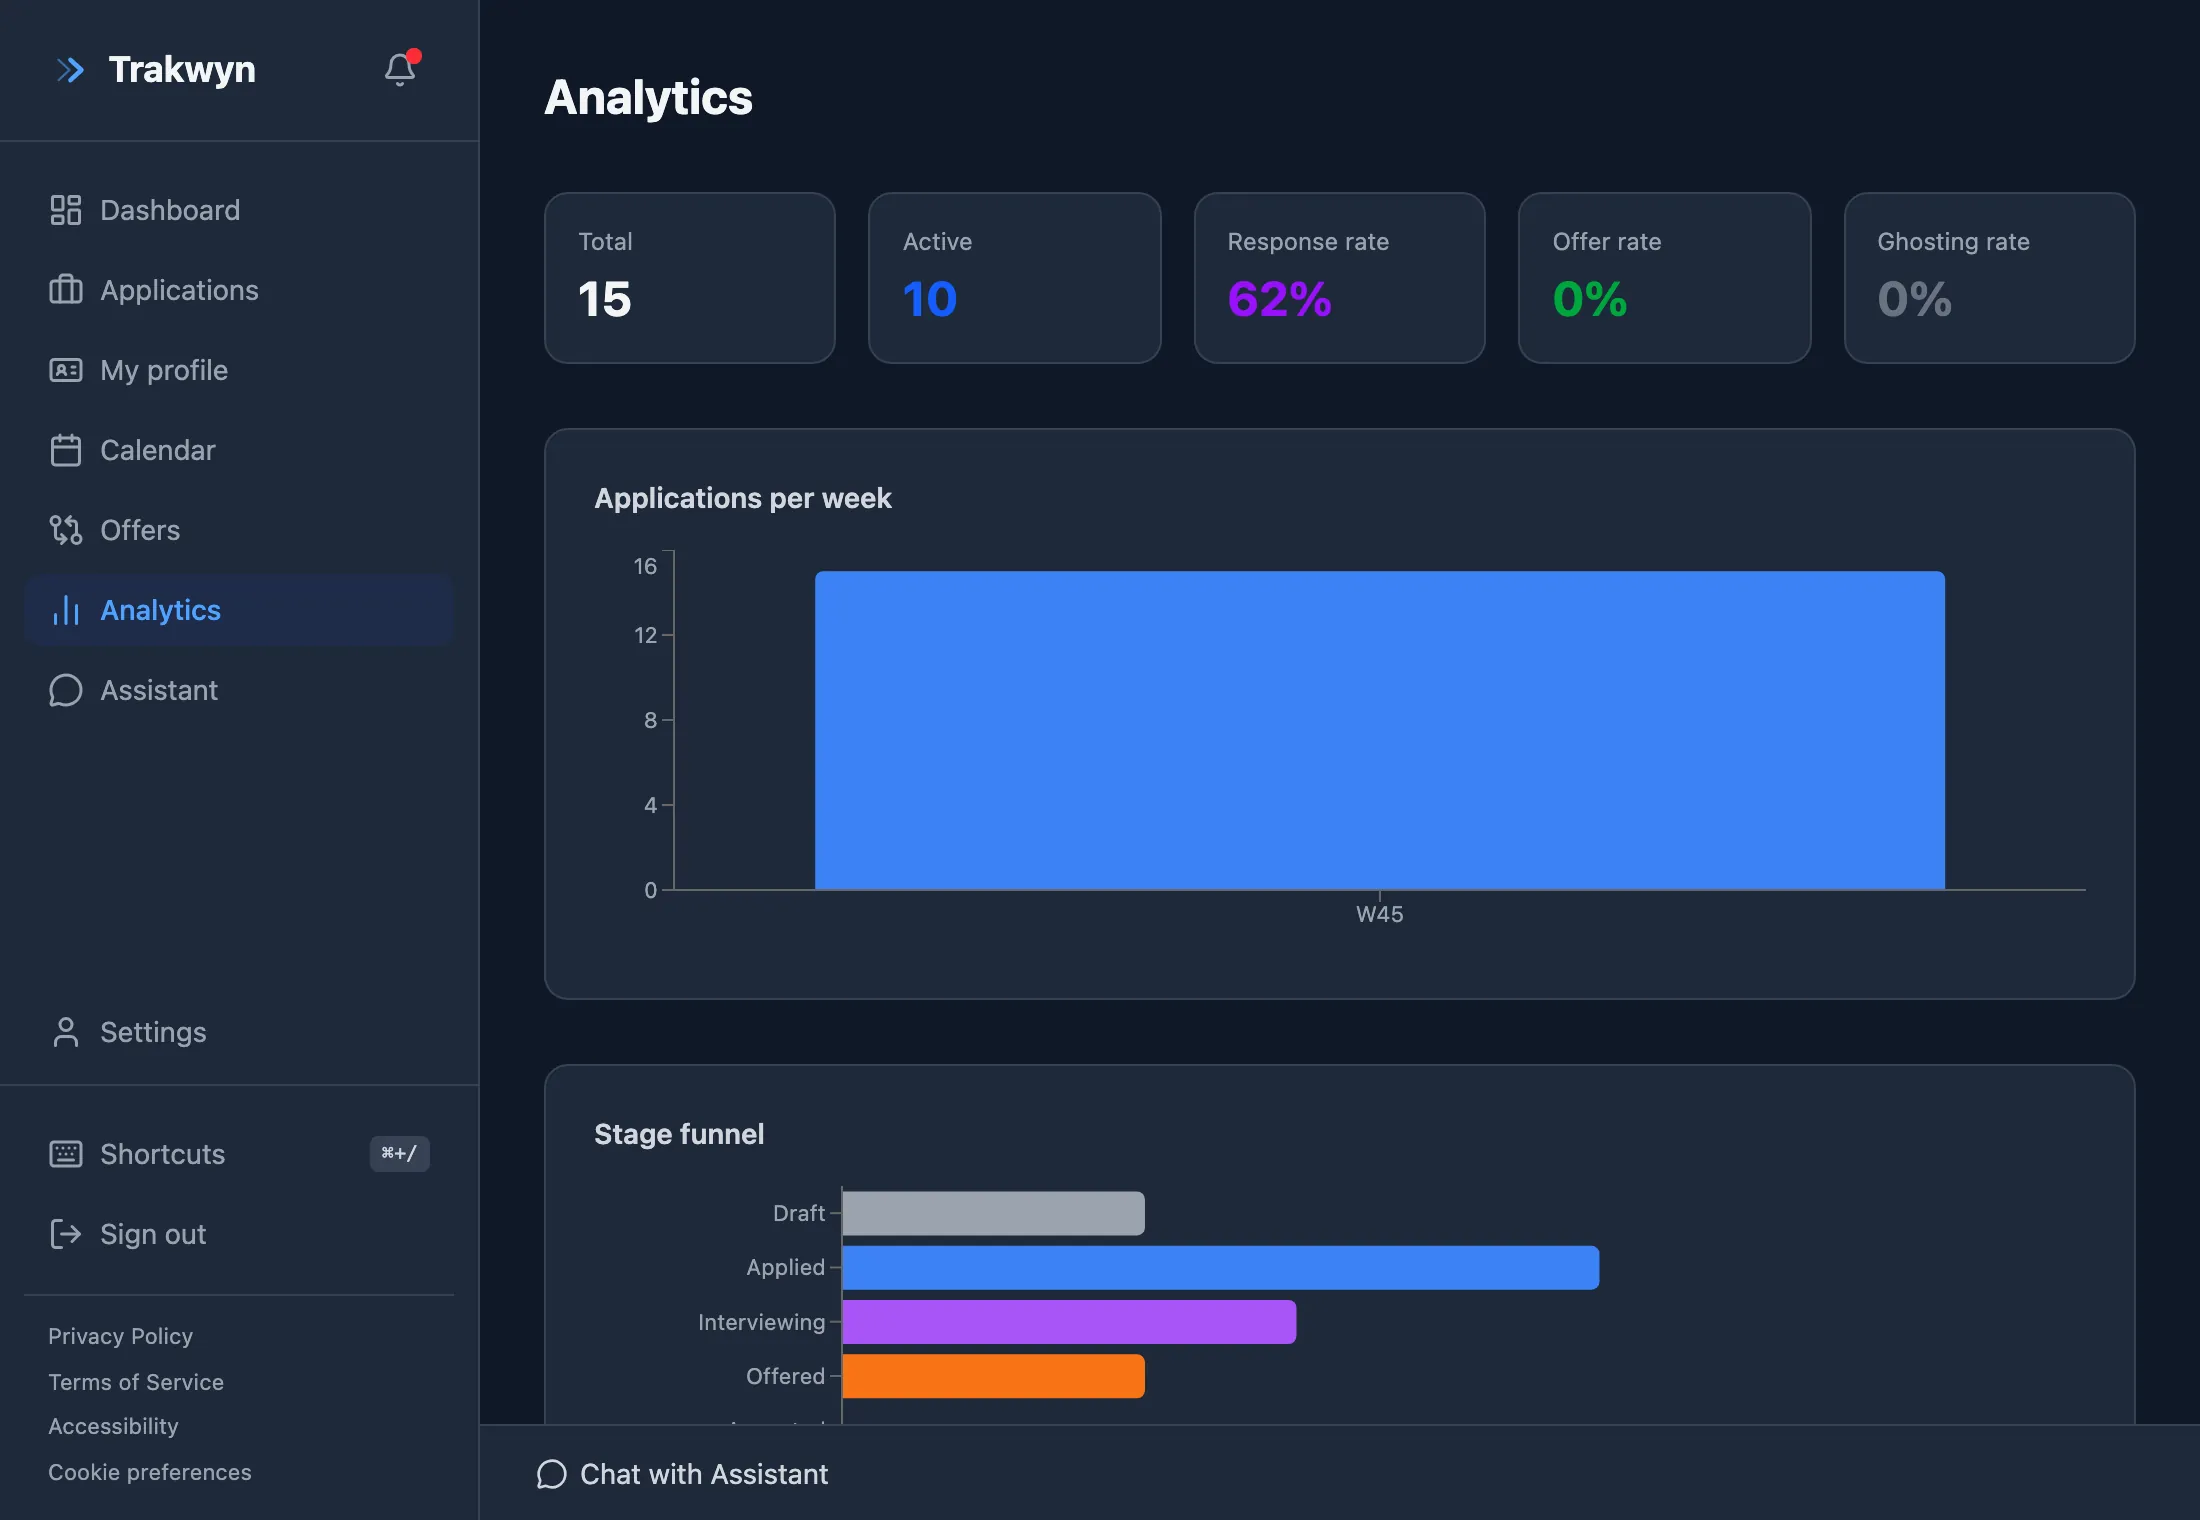
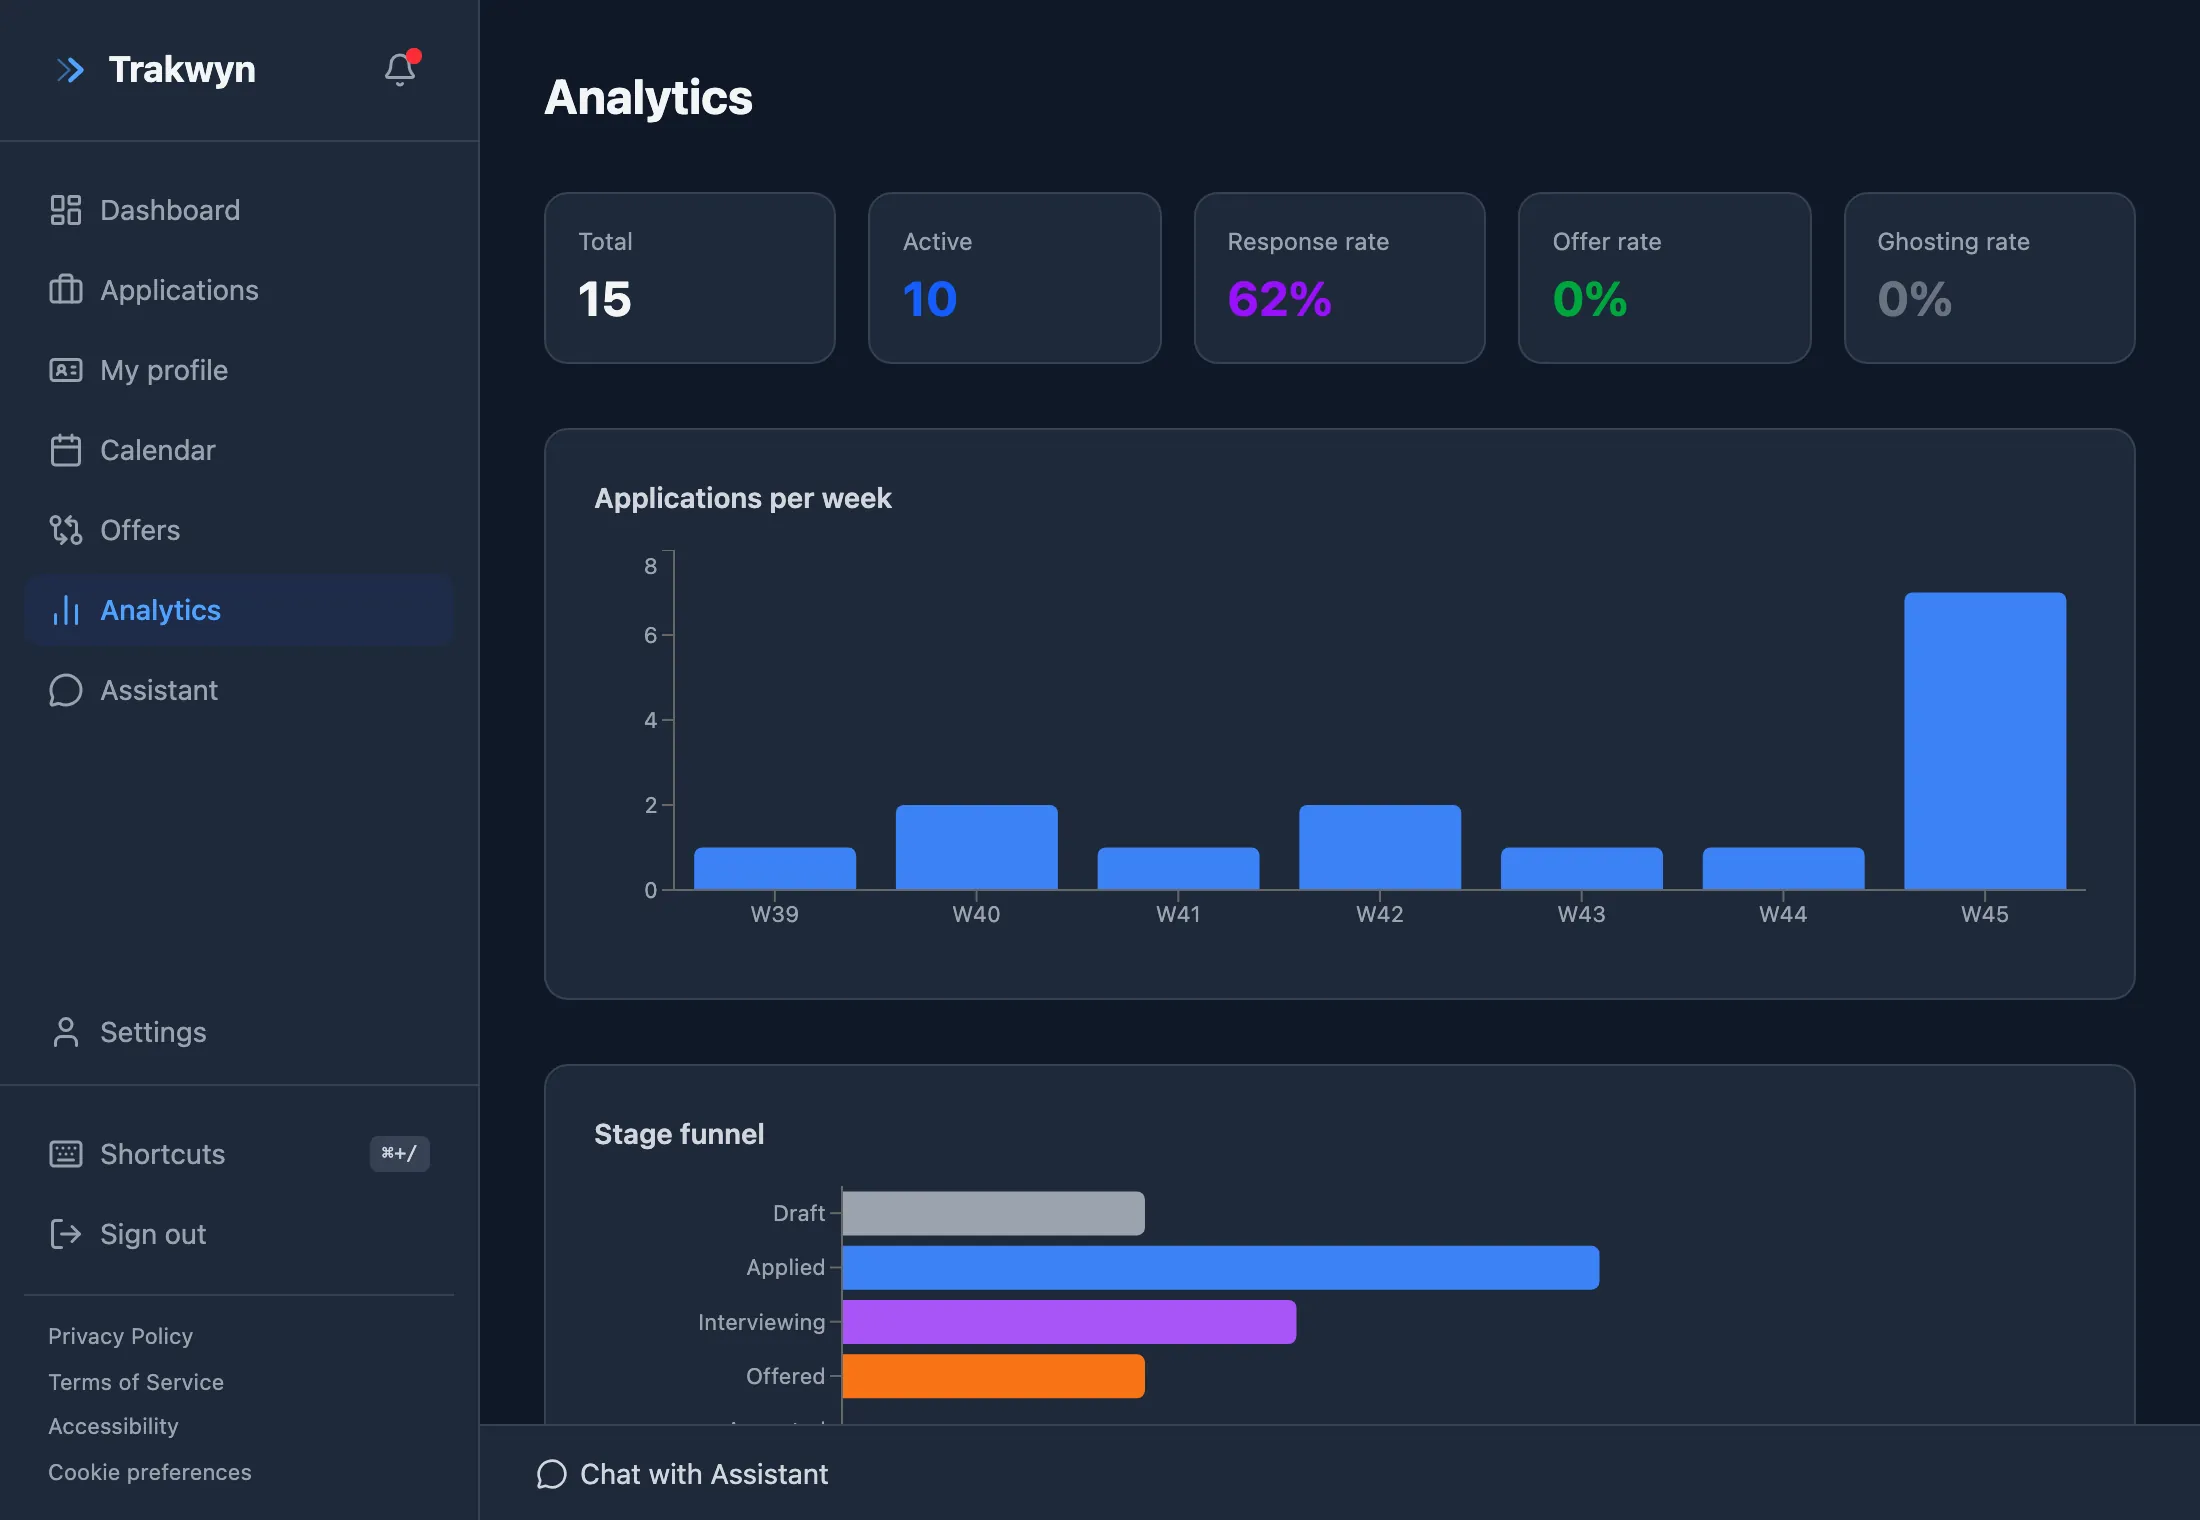
fix(api): seed applications as created when applied, so the weekly chart has several bars (JEF-530)
The demo seed set every application's createdAt to now, and analytics groups
"Applications per week" by createdAt, so the marketing screenshot showed one
bar. createdAt now follows appliedAt (drafts stay at now), which spreads the
15 demo applications over seven weeks. Recaptured the analytics screenshots.

Claude-Session: https://claude.ai/code/session_016qG1KLPbjfAerq3FF7T2hY

diff --git a/apps/api/src/__tests__/seed/seedSteps.test.ts b/apps/api/src/__tests__/seed/seedSteps.test.ts
@@ -76,6 +76,19 @@ describe('seed steps', () => {
     expect(orphanOffers).toHaveLength(0);
   });
 
+  it('creates each application when it was applied to, so the analytics weekly chart has several bars (JEF-530)', async () => {
+    const apps = await db.db.select().from(jobApplication);
+
+    const weekMs = 7 * 24 * 60 * 60 * 1000;
+    const weeks = new Set(apps.map((a) => Math.floor(a.createdAt.getTime() / weekMs)));
+    expect(weeks.size).toBeGreaterThanOrEqual(5);
+
+    for (const a of apps) {
+      // A draft has no applied date, so it is created now.
+      expect(a.createdAt.getTime()).toBe((a.appliedAt ?? now).getTime());
+    }
+  });
+
   it('seeds work experience, education, and skills', async () => {
     await seedWorkExperiences(db.db, userId, now);
     await seedEducations(db.db, userId, now);

diff --git a/apps/api/src/seed/steps/applications.ts b/apps/api/src/seed/steps/applications.ts
@@ -30,7 +30,9 @@ export async function seedApplications(db: DrizzleDb, userId: string, now: Date)
       appliedAt: app.appliedAt,
       starred: app.starred,
       source: app.source,
-      createdAt: now,
+      // An application is created when it is applied to, so analytics'
+      // "Applications per week" spreads over the weeks instead of one bar.
+      createdAt: app.appliedAt ?? now,
       updatedAt: now,
     });
 
